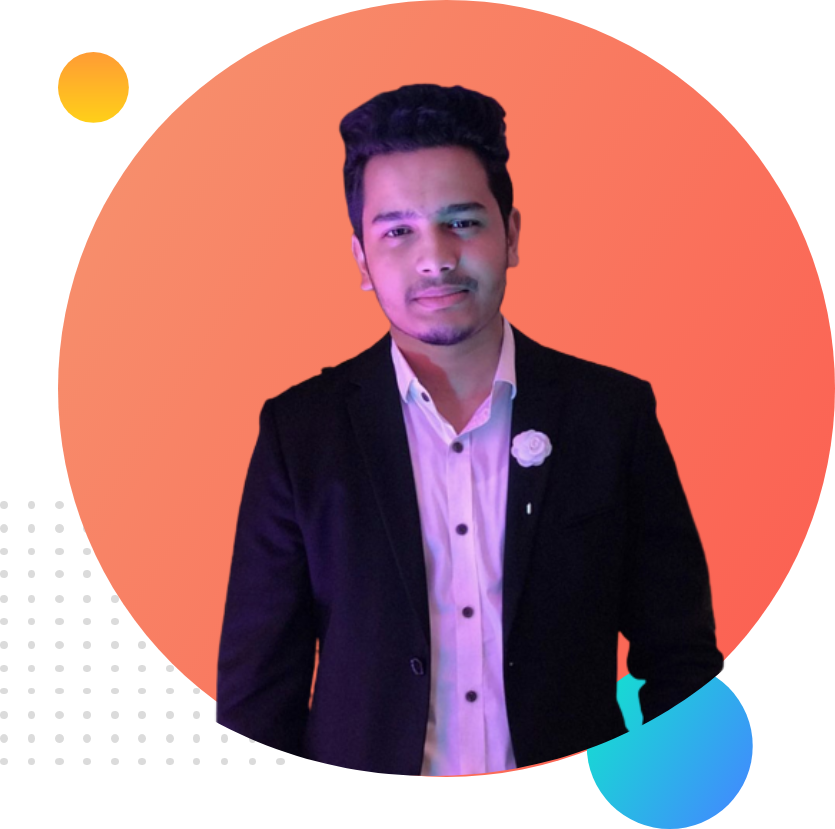
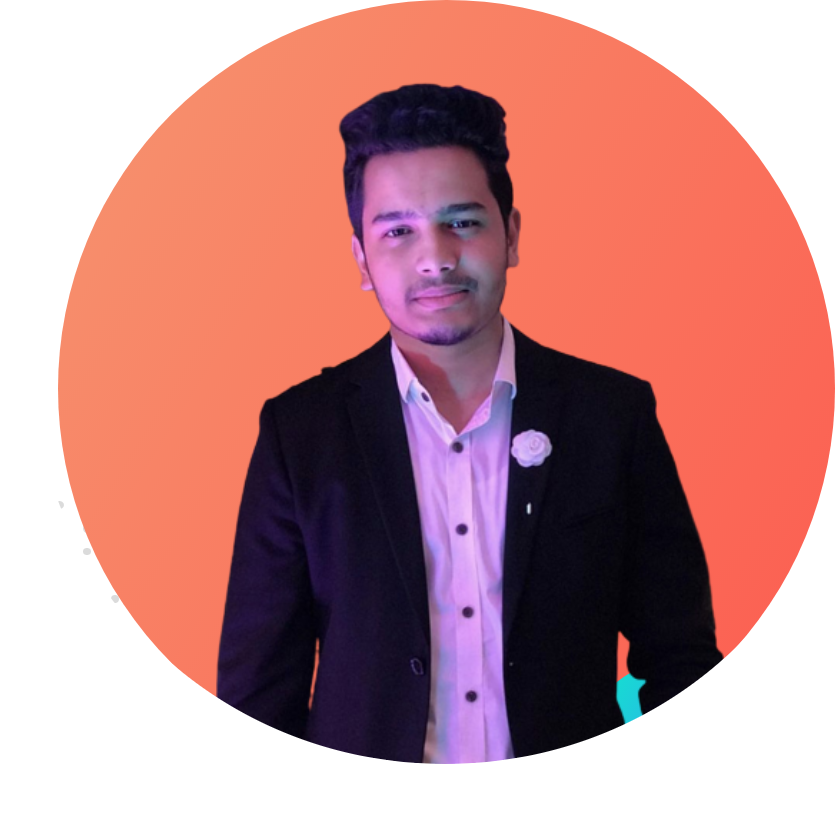
footer added

diff --git a/index.html b/index.html
@@ -11,7 +11,7 @@
     <link rel="stylesheet" href="style.css">
 </head>
 <body>
-    <section class="top-banner">
+    <section class="top-banner flexible-container">
         <div class="half-width">
             <h1>Welcome To</h1>
             <h1> <span class="orange-color">Fahid Ahmed's</span> World</h1>
@@ -20,14 +20,14 @@
             <a class="link-button" target="_blank" href="https://github.com/Fahid31">Hire Me</a>
         </div>
     <div class="half-width">
-        <img src="images/my-bg (1).png" alt="">
+        <img src="images/my-bg.png" alt="">
     </div>
     
 </section>
 
-<section class="dream-big">
+<section class="dream-big flexible-container">
     <div class="half-width">
-    <img src="images/my-bg (1).png" alt="">
+    <img src="images/my-bg2.png" alt="">
 </div>
 <div class="half-width">
     <h1>Dream Big</h1>
@@ -36,7 +36,28 @@
     <a class="link-button" target="_blank" href="">Download Resume</a>
 
 </div>
+</section>
 
+<section class="experience-area">
+    <h1>Experiences</h1>
+    <div class="flexible-container">
+        <div id="full-stack-developer" class="experience-item">
+            <h2>Full Stack Developer</h2>
+            <h3 class="orange-color">2022-Present | Pro Level Developer</h3>
+            <p>I am the master of HTML, CSS and Javascript. I know everything needed to make a website function, efficient. I didn't stop with the web. I went beyond with most popular Javascript framework called Vue JS. I even know the deployment, server and security. I will give you 100% web solution.</p>
+    
+        </div>
+    
+        <div id="baby-web-developer" class="experience-item">
+            <h2>Baby Web Developer</h2>
+            <h3 class="orange-color">2022-2024 | Programming Hero Learner</h3>
+            <p>They didn't offer me a job. But I made myself as a remove web developer. I made their website and showed it to them. They liked it. And uploaded the content. It was fun working at Programming Hero.</p>
+    
+        </div>
+    </div>
 </section>
 </body>
+<footer>
+     <p>© Fahid Ahmed 2024, a Programming Hero initiative.</p>
+</footer>
 </html>

diff --git a/style.css b/style.css
@@ -5,10 +5,13 @@ body{
 h1{
     font-size: 50px;
 }
+h2{
+    font-size: 40px;
+}
 .orange-color{
     color: maroon;
 }
-section{
+.flexible-container{
     display: flex;
     margin-bottom: 150px;
 }
@@ -37,4 +40,27 @@ section{
     background-repeat: no-repeat;
     background-position: right;
     
+}
+.experience-area{
+    background-image: url(images/exp-bg.png);
+    background-repeat: no-repeat;
+    background-position: left;
+}
+.experience-item{
+    width: 40%;
+    margin-left: 5%;
+    margin-right: 5%;
+    padding-left: 20px;
+    border-radius: 10px;
+    box-shadow: 10px 10px 40px grey;
+}
+#full-stack-developer{
+    border-left: 7px solid tomato;
+}
+#baby-web-developer{
+    border-left: 7px solid blue;
+}
+footer{
+    text-align: center;
+    color: grey;
 }
